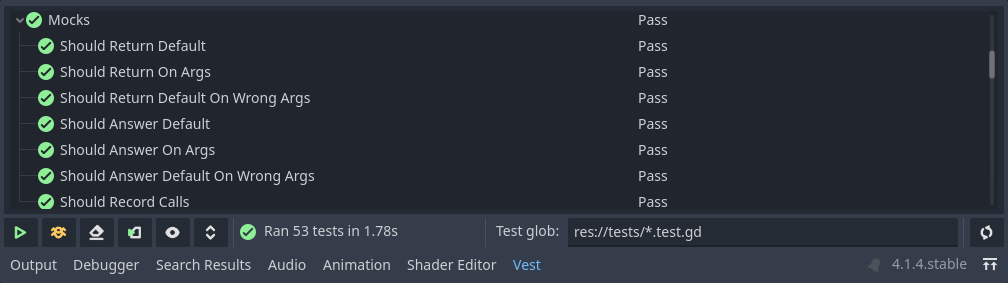
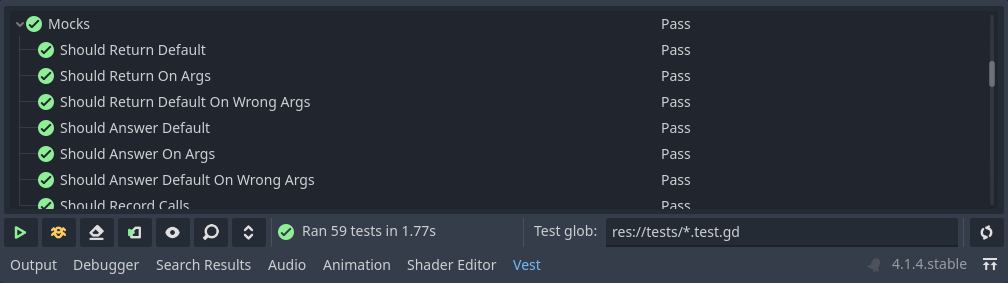
feat: Fuzzy search (#167)
Closes #163

diff --git a/docs/user-guide/running-from-ui.md b/docs/user-guide/running-from-ui.md
@@ -31,6 +31,15 @@ While each element has its tooltip or description, here's an overview:
 
     Useful for drilling down into results, e.g. showing only failed tests.
 
+![Search results](../assets/ui/search.svg) Search results
+:   Allows fuzzy searching for test suites and cases. For test cases, it also
+    considers the original method name, if available ( e.g. `test_addition()`
+    ). To prefer the method name in your search, append `()` at the end of the
+    query.
+
+    Upon losing focus, the input field is hidden if no search string is
+    specified.
+
 ![Expand / collapse](../assets/ui/expand.svg) Expand / collapse results
 :   Expands or collapses all test results recursively. If there's at least one
     collapsed item, this button will expand the results.
